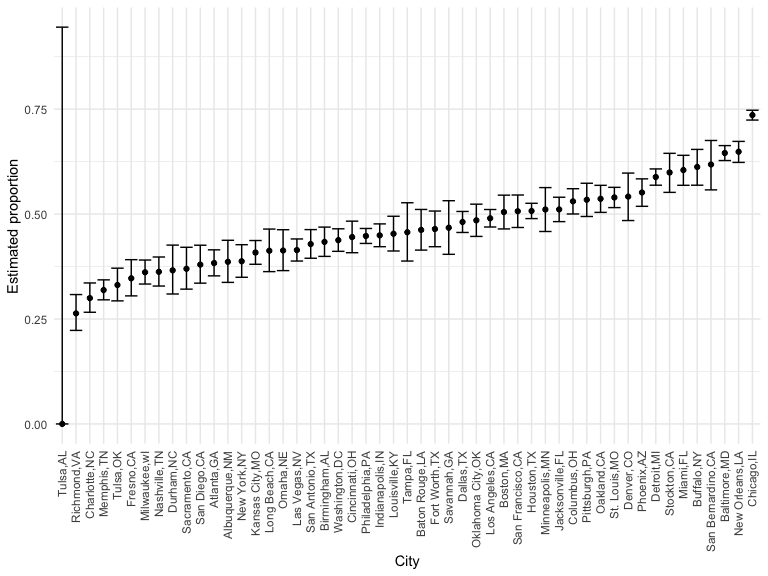
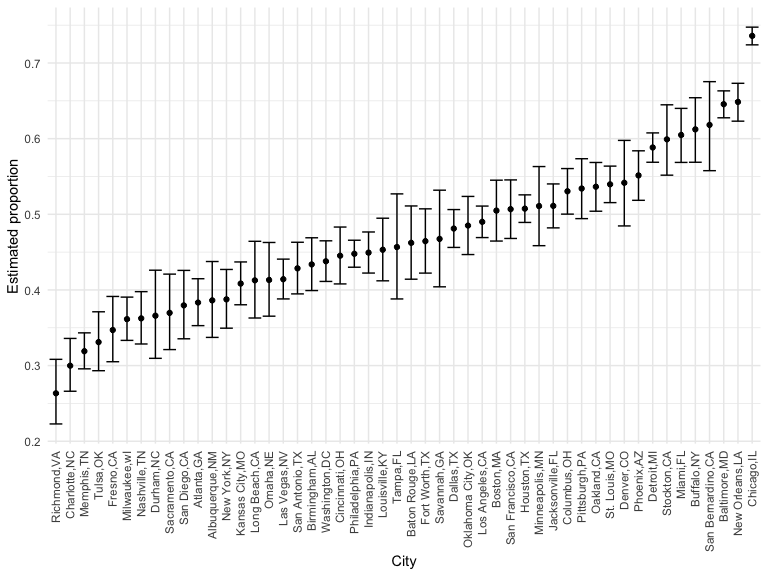
Remove strange input in Problem 2

diff --git a/p8105_hw5_fm2751.md b/p8105_hw5_fm2751.md
@@ -117,7 +117,12 @@ homicide_df =
       disposition == "Closed by arrest" ~ "solved"
     )) %>% 
   relocate(city_state) %>% 
-  select(city_state, resolution)
+  select(city_state, resolution) 
+
+# Find a strange input for "Tulsa,AL", remove
+homicide_df = 
+homicide_df %>% 
+  filter(city_state != "Tulsa,AL")
 
 head(homicide_df, 10)
 ```
@@ -201,7 +206,6 @@ homicide_summary %>%
 | St. Louis,MO      |           1677 |               905 |
 | Stockton,CA       |            444 |               266 |
 | Tampa,FL          |            208 |                95 |
-| Tulsa,AL          |              1 |                 0 |
 | Tulsa,OK          |            583 |               193 |
 | Washington,DC     |           1345 |               589 |
 
@@ -293,7 +297,6 @@ All_city %>%
 | St. Louis,MO      | 0.5396541 | 0.5154369 | 0.5636879 |
 | Stockton,CA       | 0.5990991 | 0.5517145 | 0.6447418 |
 | Tampa,FL          | 0.4567308 | 0.3881009 | 0.5269851 |
-| Tulsa,AL          | 0.0000000 | 0.0000000 | 0.9453792 |
 | Tulsa,OK          | 0.3310463 | 0.2932349 | 0.3711192 |
 | Washington,DC     | 0.4379182 | 0.4112495 | 0.4649455 |
 
@@ -317,3 +320,5 @@ homi_plot
 <img src="p8105_hw5_fm2751_files/figure-gfm/unnamed-chunk-9-1.png" width="90%" />
 
 ## Problem 3
+
+### Generate 5000 datasets
